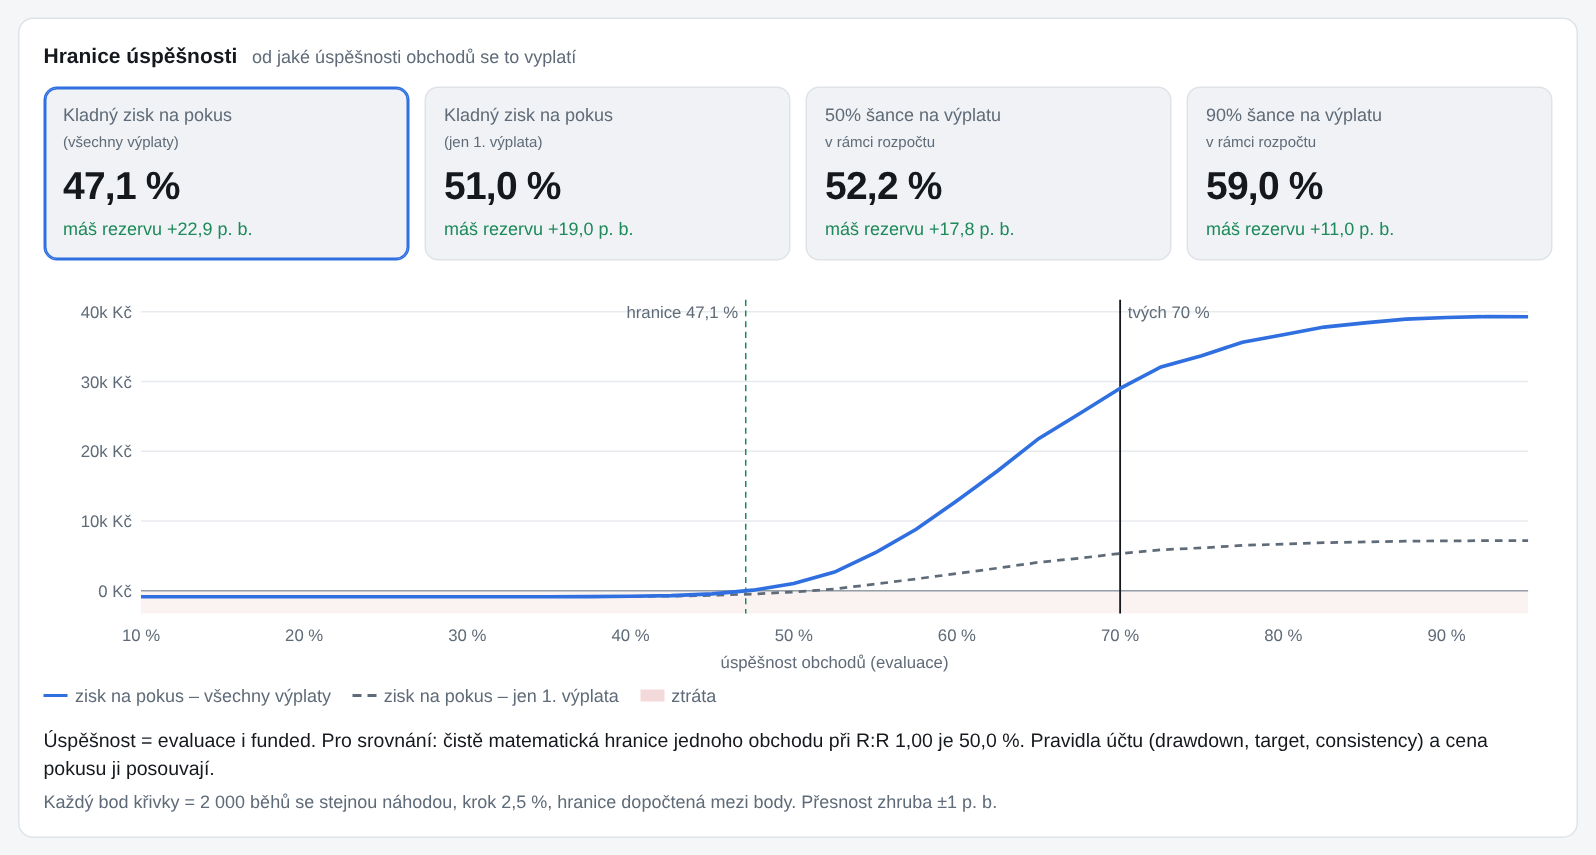
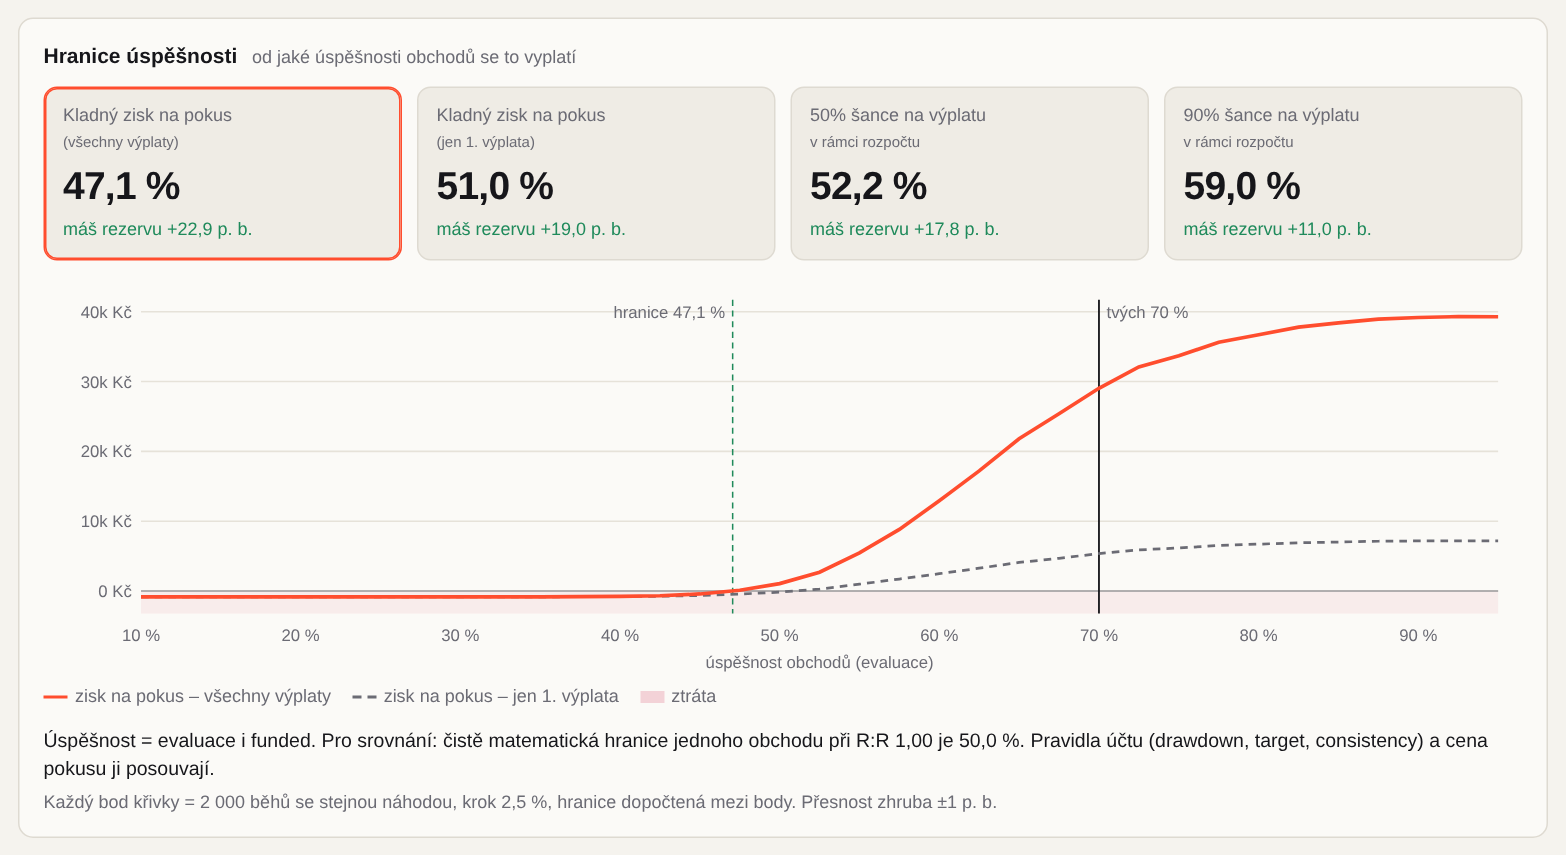
Nové rozložení vstupů a barevná paleta
Vstupy ve třech blocích: Účet a pravidla (evaluace, drawdown, funded
a výplaty), Obchodování (tabulka evaluace vs. funded), Rozpočet.
Paleta: grafit / papírová bílá, oranžový akcent #FF4D2E, chladná šedá.
Aktualizované screenshoty v README.

diff --git a/index.html b/index.html
@@ -10,55 +10,55 @@
 <style>
   :root {
     color-scheme: light dark;
-    --bg: #f5f6f8;
-    --panel: #ffffff;
-    --panel-2: #f0f2f5;
-    --border: #dfe3e8;
-    --text: #15191e;
-    --muted: #5f6b78;
-    --accent: #2f6fdf;
-    --accent-soft: rgba(47, 111, 223, .12);
-    --good: #1d8a5a;
-    --bad: #c8414b;
-    --warn-bg: #fff5dc;
-    --warn-border: #f0c95a;
-    --warn-text: #6b4c00;
-    --grid: #e7eaee;
+    --bg: #f5f3ee;
+    --panel: #fbfaf7;
+    --panel-2: #efece5;
+    --border: #dedad1;
+    --text: #16161a;
+    --muted: #6b6b74;
+    --accent: #ff4d2e;
+    --accent-soft: rgba(255, 77, 46, .12);
+    --good: #1f8a5b;
+    --bad: #d6335c;
+    --warn-bg: #fff0e6;
+    --warn-border: #f5b294;
+    --warn-text: #7a2e14;
+    --grid: #e6e2d9;
     --radius: 10px;
   }
   @media (prefers-color-scheme: dark) {
     :root:not([data-theme="light"]) {
-      --bg: #0f1216;
-      --panel: #171b21;
-      --panel-2: #1e232a;
-      --border: #2b323b;
-      --text: #e6e9ed;
-      --muted: #94a0ad;
-      --accent: #6b9cff;
-      --accent-soft: rgba(107, 156, 255, .16);
+      --bg: #0e0e10;
+      --panel: #16161a;
+      --panel-2: #1d1d22;
+      --border: #2a2a30;
+      --text: #f5f3ee;
+      --muted: #8a8a93;
+      --accent: #ff4d2e;
+      --accent-soft: rgba(255, 77, 46, .16);
       --good: #3fbf86;
-      --bad: #f06b74;
-      --warn-bg: #2d2511;
-      --warn-border: #6b5520;
-      --warn-text: #f1d58a;
-      --grid: #232930;
+      --bad: #f0607f;
+      --warn-bg: #24150f;
+      --warn-border: #5c2c1c;
+      --warn-text: #ffb59e;
+      --grid: #222227;
     }
   }
   :root[data-theme="dark"] {
-    --bg: #0f1216;
-    --panel: #171b21;
-    --panel-2: #1e232a;
-    --border: #2b323b;
-    --text: #e6e9ed;
-    --muted: #94a0ad;
-    --accent: #6b9cff;
-    --accent-soft: rgba(107, 156, 255, .16);
+    --bg: #0e0e10;
+    --panel: #16161a;
+    --panel-2: #1d1d22;
+    --border: #2a2a30;
+    --text: #f5f3ee;
+    --muted: #8a8a93;
+    --accent: #ff4d2e;
+    --accent-soft: rgba(255, 77, 46, .16);
     --good: #3fbf86;
-    --bad: #f06b74;
-    --warn-bg: #2d2511;
-    --warn-border: #6b5520;
-    --warn-text: #f1d58a;
-    --grid: #232930;
+    --bad: #f0607f;
+    --warn-bg: #24150f;
+    --warn-border: #5c2c1c;
+    --warn-text: #ffb59e;
+    --grid: #222227;
   }
   :root[data-theme="light"] { color-scheme: light; }
   :root[data-theme="dark"] { color-scheme: dark; }
@@ -91,15 +91,25 @@
   button:hover { border-color: var(--accent); }
 
   .layout {
-    display: grid; grid-template-columns: 340px minmax(0, 1fr); gap: 20px;
+    display: grid; grid-template-columns: 360px minmax(0, 1fr); gap: 20px;
     padding: 20px; max-width: 1640px; margin: 0 auto;
   }
   aside { align-self: start; position: sticky; top: 74px; max-height: calc(100vh - 94px); overflow: auto; }
   .group { background: var(--panel); border: 1px solid var(--border); border-radius: var(--radius); padding: 12px 14px; margin-bottom: 12px; }
   .group h2 { font-size: 12px; text-transform: uppercase; letter-spacing: .06em; color: var(--muted); margin: 0 0 8px; }
-  .field { display: grid; grid-template-columns: 1fr 120px; gap: 8px; align-items: center; padding: 4px 0; }
-  .field label { font-size: 13px; }
-  .field .hint { grid-column: 1 / -1; font-size: 11.5px; color: var(--muted); margin-top: -2px; }
+  .group .sub { font-size: 12.5px; font-weight: 650; margin: 10px 0 2px; padding-top: 9px; border-top: 1px solid var(--grid); }
+  .group h2 + .sub { border-top: 0; padding-top: 0; margin-top: 4px; }
+  .matrix { display: grid; grid-template-columns: minmax(0, 1fr) repeat(3, 68px); gap: 6px; align-items: center; padding-bottom: 8px; margin-bottom: 4px; border-bottom: 1px solid var(--grid); }
+  .matrix .ch { font-size: 11px; line-height: 1.2; color: var(--muted); text-align: center; align-self: end; }
+  .matrix .rl { font-size: 13px; }
+  .matrix .rl small { color: var(--muted); }
+  .matrix input { width: 100%; min-width: 0; }
+  .matrix .span2 { grid-column: span 2; }
+  .fields { display: grid; grid-template-columns: repeat(2, minmax(0, 1fr)); gap: 8px 10px; padding: 4px 0 2px; }
+  .field { display: flex; flex-direction: column; gap: 3px; min-width: 0; }
+  .field.full { grid-column: 1 / -1; }
+  .field label { font-size: 12px; color: var(--muted); white-space: nowrap; overflow: hidden; text-overflow: ellipsis; }
+  .field .hint { font-size: 11px; color: var(--muted); line-height: 1.3; opacity: .85; }
   .inp { position: relative; }
   .inp input[type=number] { width: 100%; padding-right: 26px; }
   .inp.u2 input[type=number] { padding-right: 34px; }
@@ -245,7 +255,6 @@
   }
   @media (max-width: 420px) {
     .kpi .val { font-size: 27px; }
-    .field { grid-template-columns: 1fr 110px; }
   }
 </style>
 </head>
@@ -361,41 +370,62 @@
   const STORAGE_KEY = 'prop-kalkulacka-v1';
   const D = { ...Sim.DEFAULTS, targetDays: 25 };
 
+  // Vstupy: Účet a pravidla (evaluace, drawdown, funded) · Obchodování (tabulka eval vs. funded) · Rozpočet
+  const F = (k, label, unit, step, min, max, extra) => ({ k, label, unit, step, min, max, ...extra });
   const GROUPS = [
-    { title: 'Účet', fields: [
-      { k: 'accountPrice', label: 'Cena účtu', unit: '$', step: 1, min: 0 },
-      { k: 'resetPrice', label: 'Cena resetu', unit: '$', step: 1, min: 0, hint: 'Počítá se s levnější z obou cen.' },
-      { k: 'profitTarget', label: 'Profit target', unit: '$', step: 50, min: 1 },
-      { k: 'maxLoss', label: 'Max loss / trailing DD', unit: '$', step: 50, min: 1 },
-      { k: 'lockOffset', label: 'Drawdown se zamyká na start +', unit: '$', step: 50, min: 0, hint: 'Zamkne se, když nejvyšší zavírací zůstatek dosáhne max loss + tato hodnota.' },
-      { k: 'dailyLoss', label: 'Daily loss limit', unit: '$', step: 50, min: 0, hint: '0 = bez limitu.' },
-      { k: 'consistency', label: 'Consistency', unit: '%', step: 5, min: 1, max: 100, hint: 'Nejlepší den max X % celkového zisku. 100 = vypnuto.' },
-      { k: 'split', label: 'Profit split', unit: '%', step: 5, min: 0, max: 100 },
+    { title: 'Účet a pravidla', sections: [
+      { sub: 'Evaluace', fields: [
+        F('accountPrice', 'Cena účtu', '$', 1, 0),
+        F('resetPrice', 'Cena resetu', '$', 1, 0, null, { hint: 'Bere se levnější z obou.' }),
+        F('profitTarget', 'Profit target', '$', 50, 1),
+        F('consistency', 'Consistency', '%', 5, 1, 100, { hint: 'Max podíl nejlepšího dne. 100 = vyp.' }),
+      ]},
+      { sub: 'Drawdown', fields: [
+        F('maxLoss', 'Max loss / trailing DD', '$', 50, 1),
+        F('lockOffset', 'DD se zamyká na start +', '$', 50, 0, null, { hint: 'Při zůstatku max loss + tato částka.' }),
+        F('dailyLoss', 'Daily loss limit', '$', 50, 0, null, { hint: '0 = bez limitu.' }),
+      ]},
+      { sub: 'Funded a výplaty', fields: [
+        F('payoutTarget', 'Zisk pro výplatu', '$', 50, 1),
+        F('payoutSize', 'Velikost výplaty', '$', 50, 0),
+        F('split', 'Profit split', '%', 5, 0, 100),
+        F('maxPayouts', 'Max počet výplat', '', 1, 0, null, { hint: '0 = bez limitu.' }),
+        F('minDaysBetween', 'Min. dní mezi výplatami', '', 1, 0),
+        F('horizonDays', 'Horizont simulace', 'dní', 10, 10),
+      ]},
     ]},
-    { title: 'Obchodování', fields: [
-      { k: 'winRate', label: 'Úspěšnost – evaluace', unit: '%', step: 1, min: 0, max: 100 },
-      { k: 'winRateFunded', label: 'Úspěšnost – funded', unit: '%', step: 1, min: 0, max: 100 },
-      { k: 'rr', label: 'Poměr výhra/ztráta (R:R)', unit: '', step: 0.1, min: 0 },
-      { k: 'tradesPerDay', label: 'Obchodů denně', unit: '', step: 1, min: 1, max: 50 },
-      { k: 'riskEval', label: 'Riziko / obchod – evaluace', unit: '$', step: 25, min: 1 },
-      { k: 'riskFundedBefore', label: 'Riziko – funded před zamčením', unit: '$', step: 25, min: 1 },
-      { k: 'riskFundedAfter', label: 'Riziko – funded po zamčení', unit: '$', step: 25, min: 1 },
-      { k: 'payoutTarget', label: 'Zisk pro 1. výplatu (funded)', unit: '$', step: 50, min: 1 },
-      { k: 'payoutSize', label: 'Velikost výplaty', unit: '$', step: 50, min: 0 },
-    ]},
-    { title: 'Funded – další výplaty', fields: [
-      { k: 'maxPayouts', label: 'Max počet výplat z účtu', unit: '', step: 1, min: 0, hint: '0 = bez limitu. Po limitu účet končí (např. přechod na live).' },
-      { k: 'minDaysBetween', label: 'Min. obchodních dní mezi výplatami', unit: '', step: 1, min: 0 },
-      { k: 'horizonDays', label: 'Horizont simulace funded', unit: 'dní', step: 10, min: 10, hint: 'Obchodní dny. Další výplata je možná, kdykoli zůstatek znovu dosáhne cílového zisku; výplata ho sníží.' },
-    ]},
-    { title: 'Peníze', fields: [
-      { k: 'budget', label: 'Rozpočet', unit: 'Kč', step: 500, min: 0 },
-      { k: 'fxRate', label: 'Kurz Kč/USD', unit: '', step: 0.1, min: 0.01 },
-      { k: 'fxFee', label: 'Poplatek za platbu v cizí měně', unit: '%', step: 0.5, min: 0 },
-      { k: 'taxReserve', label: 'Rezerva na daně z výplaty', unit: '%', step: 1, min: 0, max: 100 },
-      { k: 'maxAttempts', label: 'Max počet pokusů', unit: '', step: 1, min: 1, optional: true, hint: '' },
-    ]},
+    { title: 'Obchodování',
+      matrix: {
+        cols: ['Evaluace', 'Funded<br>před zam.', 'Funded<br>po zam.'],
+        rows: [
+          { label: 'Úspěšnost', unit: '%', cells: [
+            F('winRate', 'Úspěšnost – evaluace', '%', 1, 0, 100),
+            F('winRateFunded', 'Úspěšnost – funded', '%', 1, 0, 100, { span: 2 }),
+          ]},
+          { label: 'Riziko / obchod', unit: '$', cells: [
+            F('riskEval', 'Riziko – evaluace', '$', 25, 1),
+            F('riskFundedBefore', 'Riziko – funded před zamčením', '$', 25, 1),
+            F('riskFundedAfter', 'Riziko – funded po zamčení', '$', 25, 1),
+          ]},
+        ],
+      },
+      sections: [{ fields: [
+        F('rr', 'R:R (výhra / ztráta)', '', 0.1, 0),
+        F('tradesPerDay', 'Obchodů denně', '', 1, 1, 50),
+      ]}],
+    },
+    { title: 'Rozpočet', sections: [{ fields: [
+      F('budget', 'Rozpočet', 'Kč', 500, 0),
+      F('fxRate', 'Kurz Kč/USD', '', 0.1, 0.01),
+      F('fxFee', 'Poplatek za cizí měnu', '%', 0.5, 0),
+      F('taxReserve', 'Rezerva na daně', '%', 1, 0, 100),
+      F('maxAttempts', 'Max počet pokusů', '', 1, 1, null, { optional: true, hint: '', full: true }),
+    ]}]},
   ];
+  const ALL_FIELDS = GROUPS.flatMap((g) => [
+    ...(g.matrix ? g.matrix.rows.flatMap((r) => r.cells) : []),
+    ...g.sections.flatMap((sec) => sec.fields),
+  ]);
 
   const $ = (id) => document.getElementById(id);
   const fmtPct = (x, d = 1) => (x == null || !isFinite(x)) ? '–' : (x * 100).toLocaleString('cs-CZ', { minimumFractionDigits: d, maximumFractionDigits: d }) + ' %';
@@ -420,24 +450,43 @@
   const inputEls = {};
   function buildForm() {
     const root = $('inputs');
+    const attrs = (f) => ` step="${f.step}"` + (f.min != null ? ` min="${f.min}"` : '') + (f.max != null ? ` max="${f.max}"` : '') + ' inputmode="decimal"';
+    const bind = (f, el) => { el.addEventListener('input', () => onInput(f, el)); inputEls[f.k] = el; };
     for (const g of GROUPS) {
       const box = document.createElement('div');
       box.className = 'group';
       box.innerHTML = `<h2>${g.title}</h2>`;
-      for (const f of g.fields) {
-        const row = document.createElement('div');
-        row.className = 'field';
-        const id = 'in_' + f.k;
-        row.innerHTML =
-          `<label for="${id}">${f.label}</label>` +
-          `<div class="inp${f.unit.length > 1 ? ' u2' : ''}"><input type="number" id="${id}" step="${f.step}"` +
-          (f.min != null ? ` min="${f.min}"` : '') + (f.max != null ? ` max="${f.max}"` : '') +
-          ` inputmode="decimal">${f.unit ? `<span class="unit">${f.unit}</span>` : ''}</div>` +
-          (f.hint != null ? `<div class="hint" id="hint_${f.k}">${f.hint}</div>` : '');
-        box.appendChild(row);
-        const el = row.querySelector('input');
-        el.addEventListener('input', () => onInput(f, el));
-        inputEls[f.k] = el;
+      if (g.matrix) {
+        const m = document.createElement('div');
+        m.className = 'matrix';
+        m.innerHTML = '<span></span>' + g.matrix.cols.map((c) => `<span class="ch">${c}</span>`).join('') +
+          g.matrix.rows.map((r) => `<span class="rl">${r.label} <small>${r.unit}</small></span>` +
+            r.cells.map((f) => `<input type="number" id="in_${f.k}" aria-label="${f.label}" title="${f.label}"${attrs(f)}${f.span ? ` class="span${f.span}"` : ''}>`).join('')).join('');
+        box.appendChild(m);
+        for (const r of g.matrix.rows) for (const f of r.cells) bind(f, m.querySelector('#in_' + f.k));
+      }
+      for (const sec of g.sections) {
+        if (sec.sub) {
+          const h = document.createElement('div');
+          h.className = 'sub';
+          h.textContent = sec.sub;
+          box.appendChild(h);
+        }
+        const grid = document.createElement('div');
+        grid.className = 'fields';
+        box.appendChild(grid);
+        for (const f of sec.fields) {
+          const row = document.createElement('div');
+          row.className = 'field' + (f.full ? ' full' : '');
+          const id = 'in_' + f.k;
+          row.innerHTML =
+            `<label for="${id}">${f.label}</label>` +
+            `<div class="inp${f.unit.length > 1 ? ' u2' : ''}"><input type="number" id="${id}"${attrs(f)}>` +
+            `${f.unit ? `<span class="unit">${f.unit}</span>` : ''}</div>` +
+            (f.hint != null ? `<div class="hint" id="hint_${f.k}">${f.hint}</div>` : '');
+          grid.appendChild(row);
+          bind(f, row.querySelector('input'));
+        }
       }
       root.appendChild(box);
     }
@@ -483,7 +532,7 @@
   }
 
   function fillForm() {
-    for (const g of GROUPS) for (const f of g.fields) {
+    for (const f of ALL_FIELDS) {
       inputEls[f.k].value = state[f.k];
       inputEls[f.k].classList.remove('invalid');
     }
